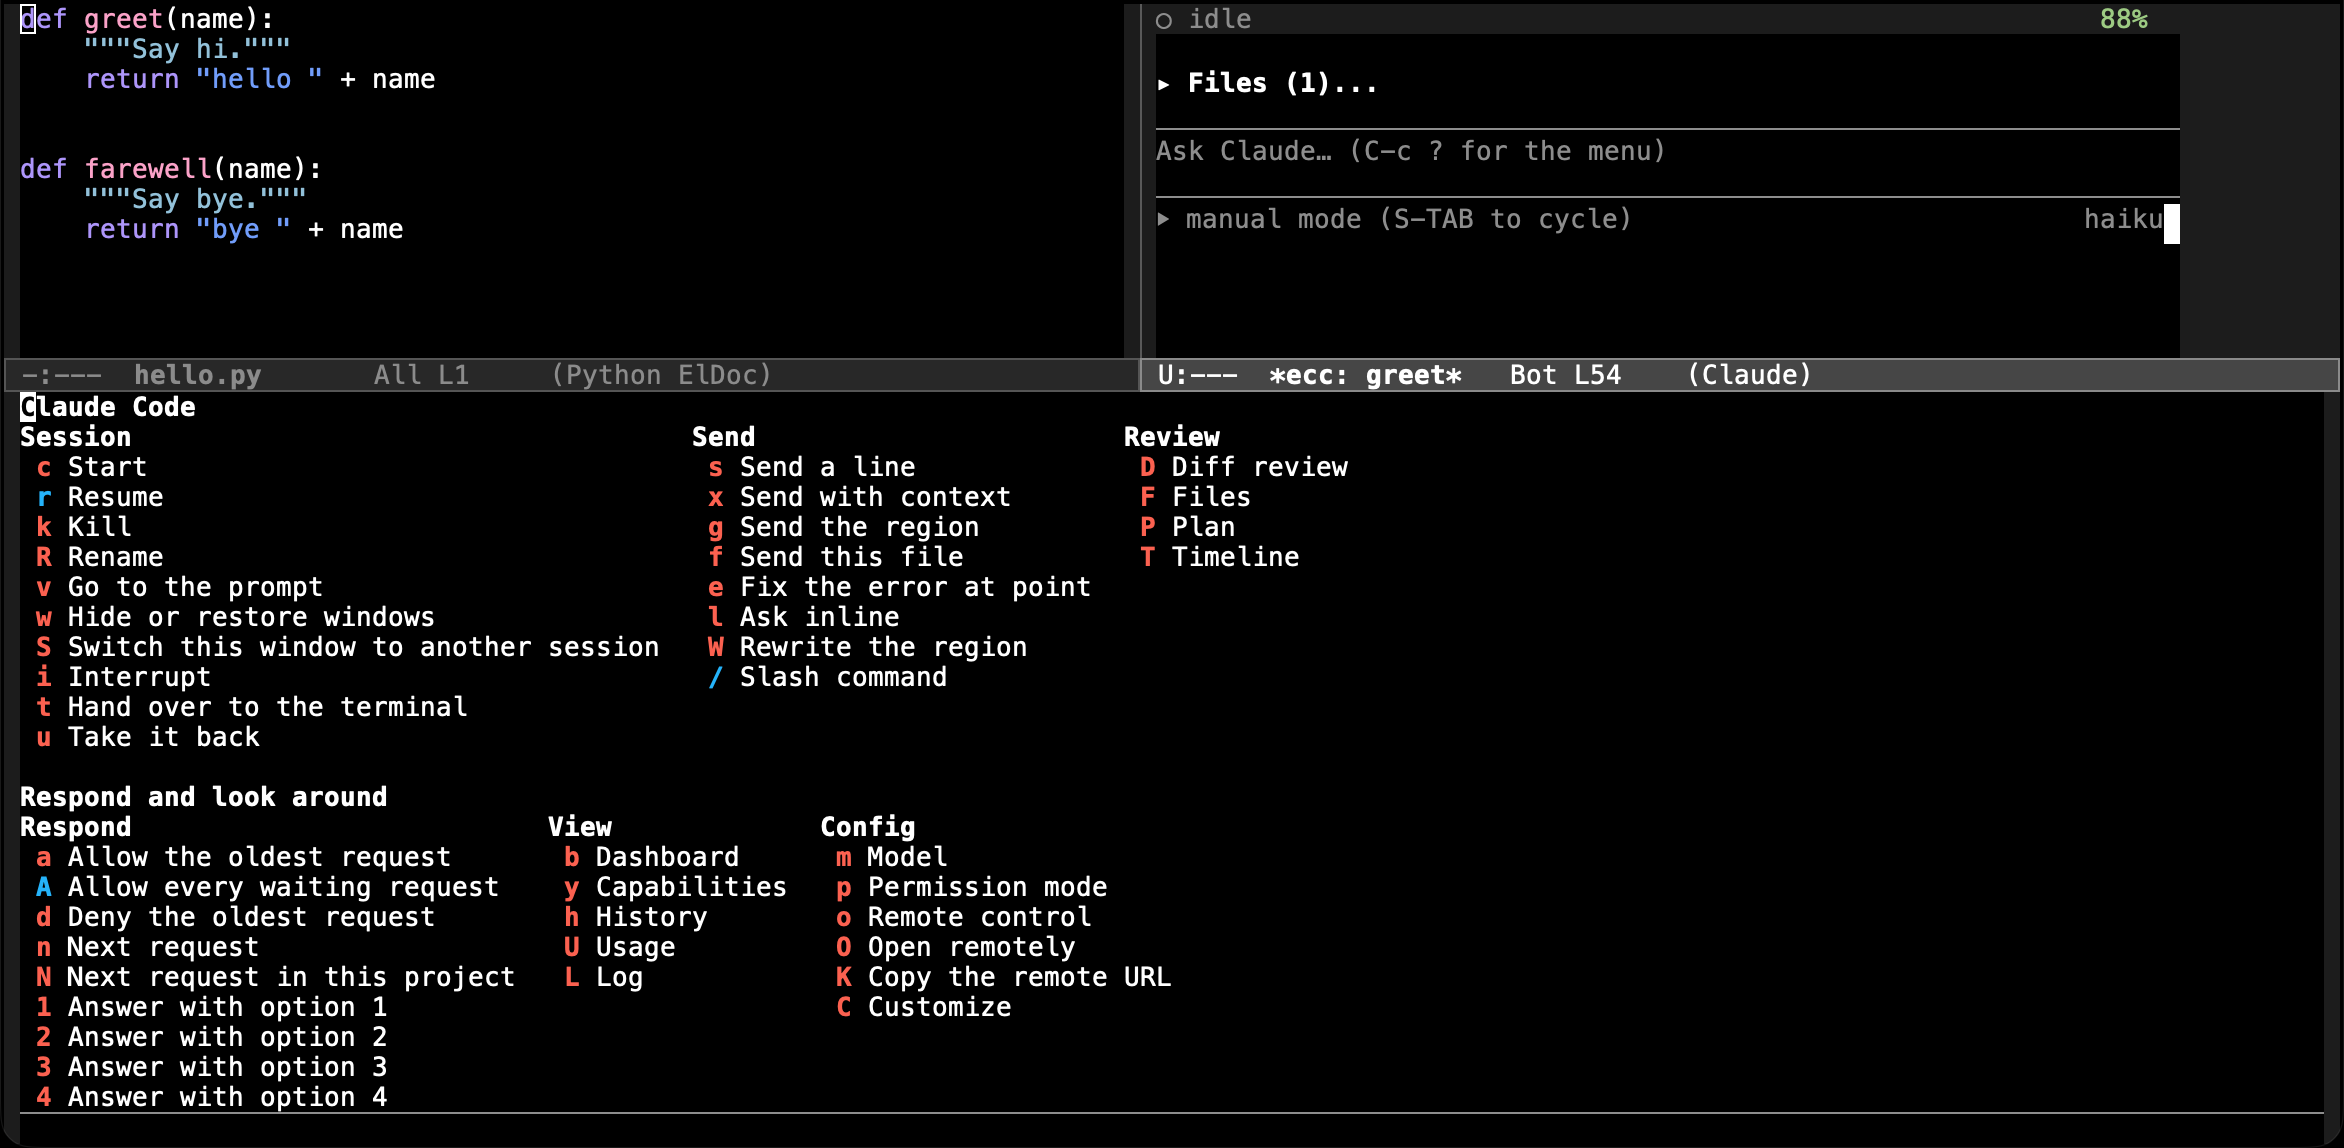
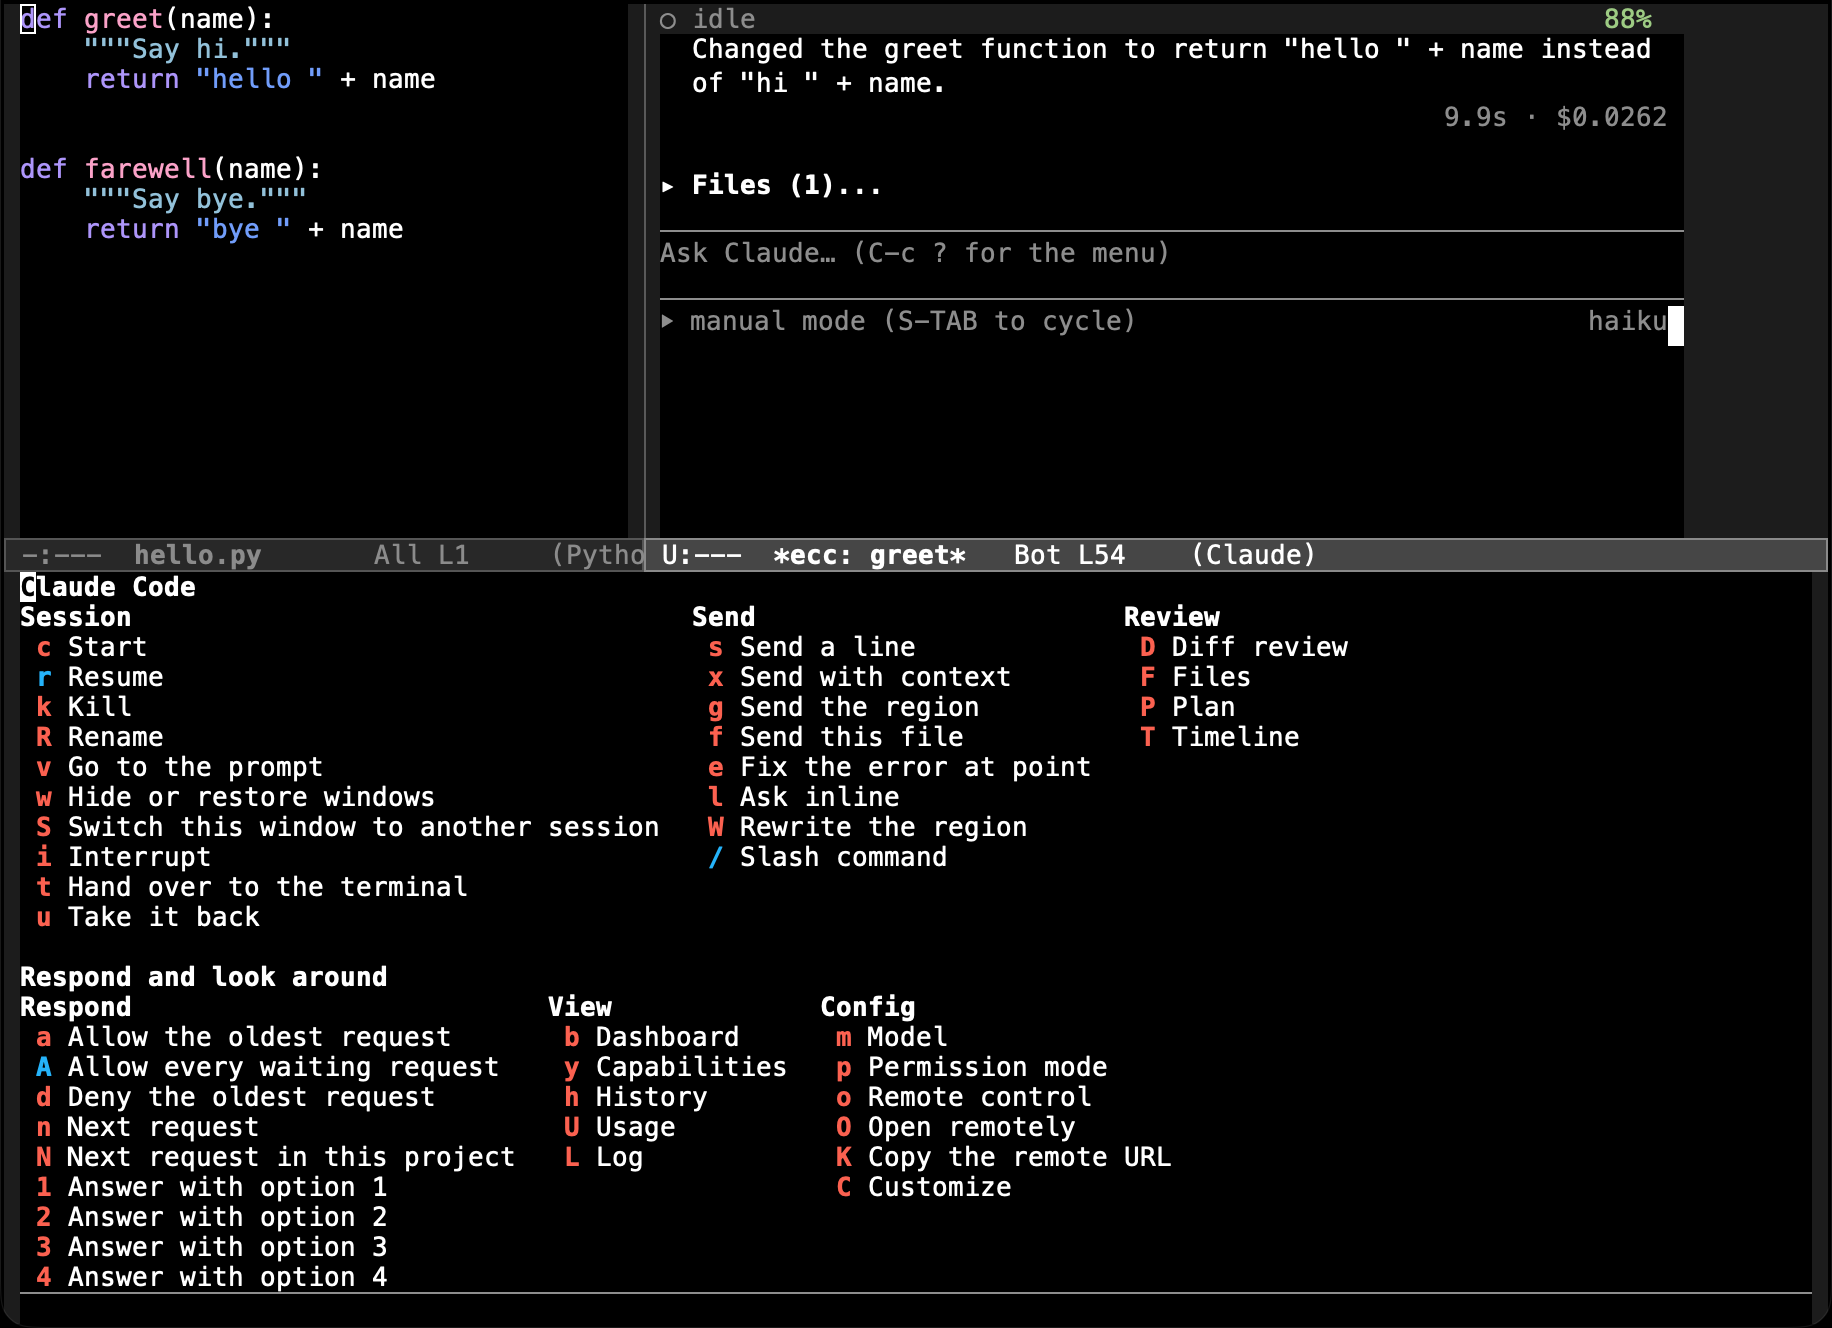
docs(site): show the hand-off, and record how the pictures are made
The hand-off is not a picture of another application: ghostel draws the
CLI's full screen interface in an Emacs buffer, so the scene is captured
the same way as the others.  What it needs that the others do not is the
real CLI -- `ecc-tui-open' runs `claude --resume' -- so the script
records a short conversation in the demo project the first time it is
run and keeps it.

Two things had to be got out of the way before the picture showed the
feature rather than the machine it was taken on.  The demo folder is
trusted in ~/.claude.json, or the terminal opens on the CLI's "is this a
project you trust" dialog.  And every CLAUDE* variable is unset before
anything starts: macOS `open' does pass the environment to the Emacs it
launches, and CLAUDE_CODE_CHILD_SESSION put "Transcript saving is off"
across the top of the frame.

The scenes now keep their frames in a directory each, so a run can make
more than one animation, and a scene starts by selecting an ordinary
window -- the one before it may have left the point in a minibuffer or
in the child frame the completion list is drawn in, where window
commands fail rather than act.

docs/site/README.md now covers both generators, including the four
things about driving Emacs through the server that cost the most time.

diff --git a/docs/site/README.md b/docs/site/README.md
@@ -80,10 +80,33 @@ English page at the Japanese URL, so `/ja/start/overview/` exists the moment
 output listing a `/ja/` route proves nothing about whether the Japanese page
 was written.
 
-## The images in the README
+## The pictures
 
-`docs/images/session.gif` and `session.png` are generated by
-`scripts/screenshot.sh`, not taken by hand. It opens a throwaway GUI Emacs,
+There are two generators, and neither takes a picture by hand.
+
+`scripts/docshots.sh` makes the site's own pictures, into `src/assets`:
+`menu.png`, `resume.png`, `switch.gif` and `handover.gif`. It opens a
+throwaway GUI Emacs in the bottom right corner of the screen, walks it
+through a scene and captures the frame. Four things it knows that are worth
+not learning again:
+
+- a server request that opens a minibuffer never answers -- the recursive edit
+  starts before the reply is sent -- so a scene that reads from the minibuffer
+  schedules it on a timer and lets `emacsclient' return first, and keys are
+  left on `unread-command-events' rather than fed with `execute-kbd-macro';
+- the frame is asked where it is again before every picture: the menu resizes
+  it, and a frame that would grow past the bottom of the screen is moved;
+- the title bar is left out of the rectangle, because macOS writes the new
+  size into it when a frame is resized and nothing in Emacs clears that;
+- the hand-off scene runs the **real** CLI, so it needs a conversation the CLI
+  can `--resume` (recorded into `/tmp/greet` on the first run and kept), the
+  demo folder trusted in `~/.claude.json`, and every `CLAUDE*` variable unset
+  before anything starts -- macOS `open` passes the environment on, and
+  `CLAUDE_CODE_CHILD_SESSION` puts "Transcript saving is off" across the top
+  of the picture.
+
+`docs/images/session.gif` and `session.png`, the ones README.md carries, are
+generated by `scripts/screenshot.sh`, not taken by hand. It opens a throwaway GUI Emacs,
 replays recorded fixtures through the real dispatch and renderer, and drives
 the frame through `emacsclient` one step at a time, capturing a frame after
 each. No CLI, no network, and the same output every time.
@@ -93,7 +116,9 @@ Recording permission (System Settings → Privacy & Security → Screen Recordin
 without that, `screencapture` says "could not create image from display" and
 the frames come out empty.
 
-Those images live outside the Astro project, so the site does not reference
-them. Putting one on a page means either copying it into `src/assets/` (Astro
-optimises it and adds the base) or into `public/` (one more path with a
-hand-written base). Neither has been done; the site is text.
+Those two live outside the Astro project, so the site does not reference them.
+The site's own pictures are in `src/assets` and are linked from a page with a
+relative path (`../../../assets/menu.png`). Astro rewrites them: a PNG becomes
+a `webp` under `_astro/` with the base already in the URL, and an animated GIF
+becomes an animated webp -- check for `ANMF` chunks in the output if an
+animation ever looks still.

diff --git a/docs/site/src/content/docs/features/menu.md b/docs/site/src/content/docs/features/menu.md
@@ -109,7 +109,11 @@ Interrupts the running turn. What has already been done is kept.
 
 ### `t` — Hand over to the terminal
 
-Continues the conversation in the terminal client.
+Continues the conversation in the terminal client. The terminal is
+[ghostel](https://github.com/dakra/ghostel), which draws the CLI's full screen
+interface in an Emacs buffer, so this stays inside Emacs.
+
+![A session handed over: the CLI's own interface takes the window, with the conversation resumed](../../../assets/handover.gif)
 
 The running turn is interrupted and the process Emacs started is stopped
 before the terminal resumes the conversation, because two processes on one
